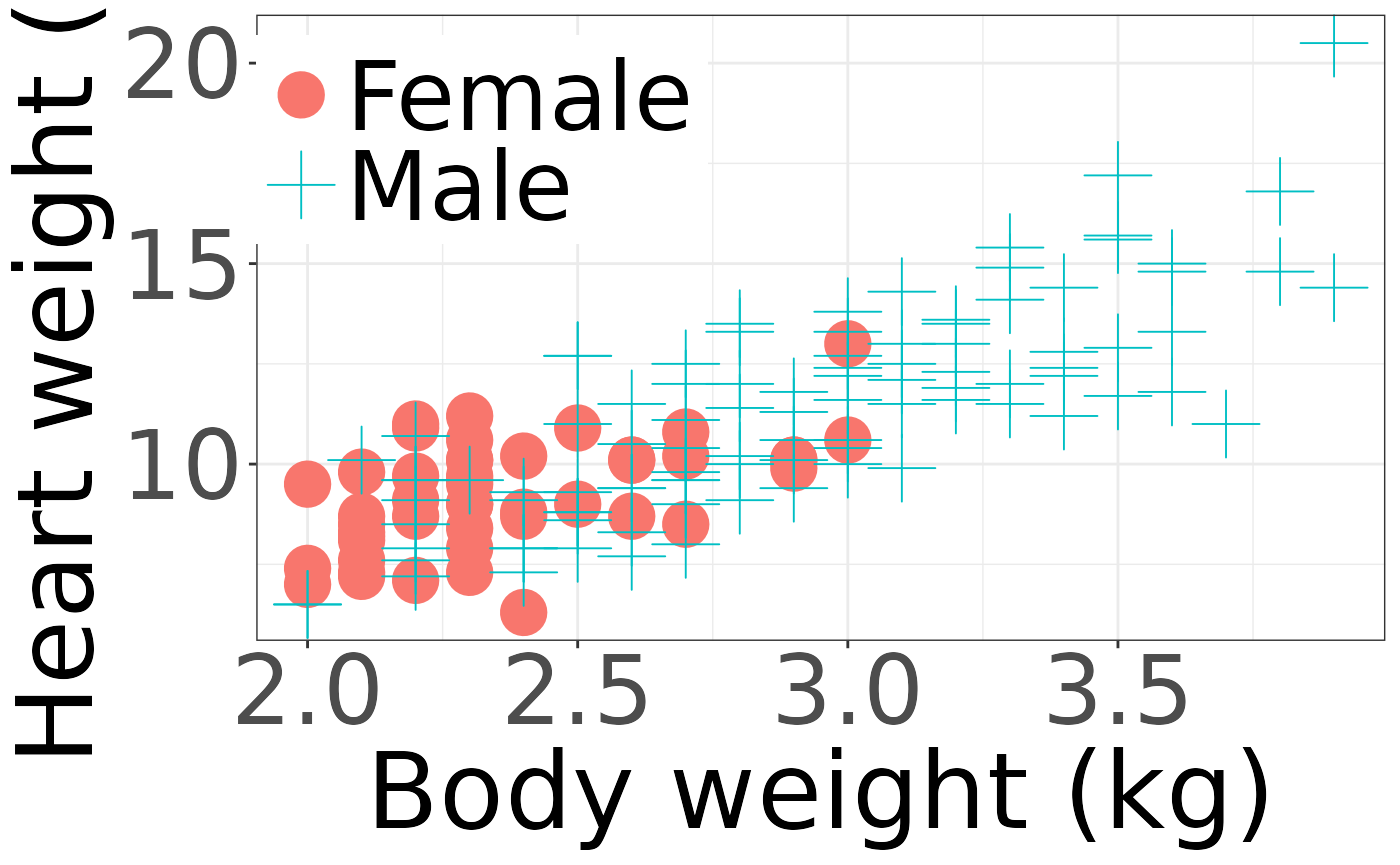
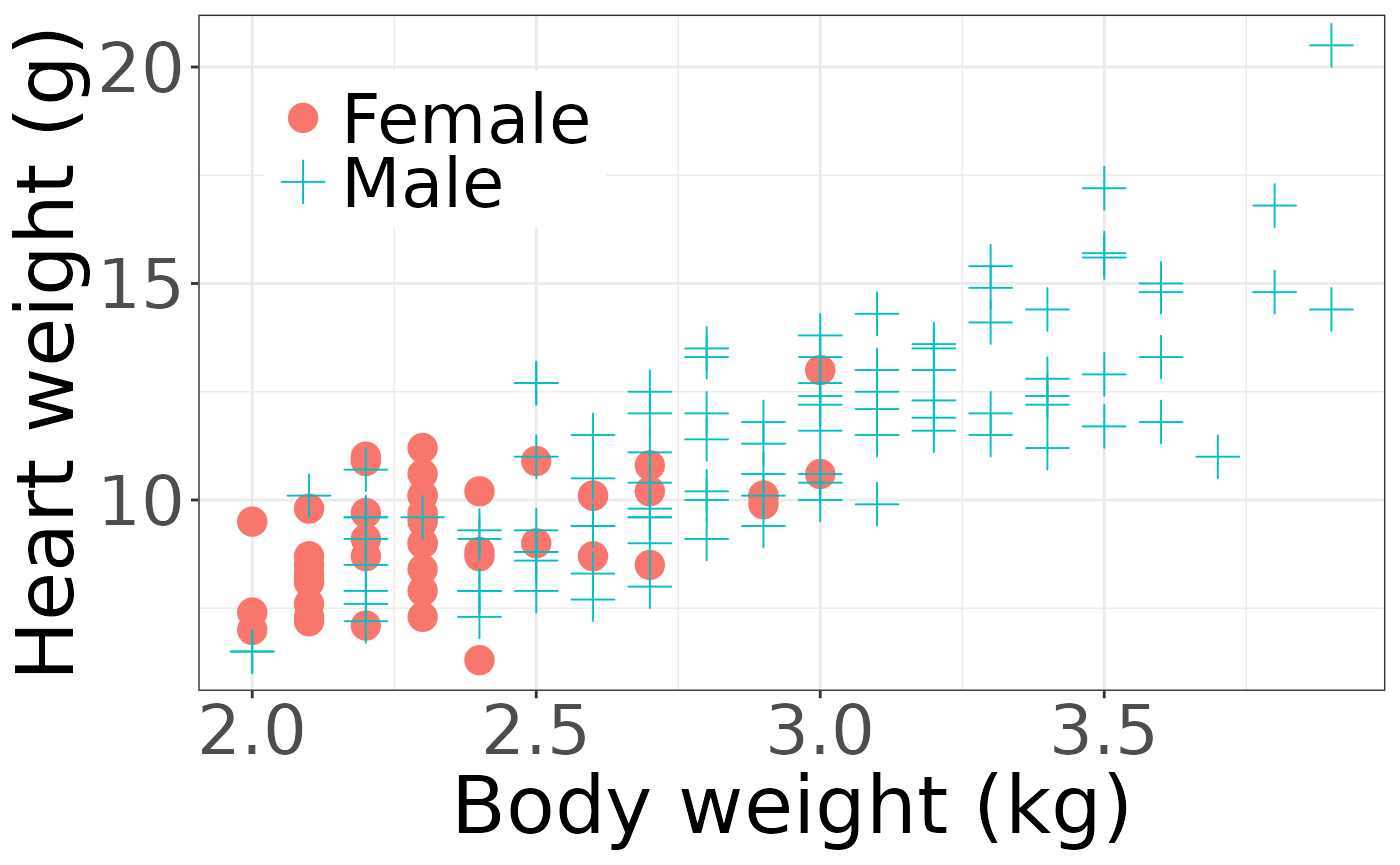
Deploying to gh-pages from @ jrvanderdoes/purify@3accf1cc36ce6e32ae7c7b9b3adfd80e08b94caa 🚀

diff --git a/articles/cats.html b/articles/cats.html
@@ -59,7 +59,7 @@
       <h1>cats</h1>
             
       
-      <small class="dont-index">Source: <a href="https://github.com/jrvanderdoes/purify/blob/main/vignettes/cats.Rmd" class="external-link"><code>vignettes/cats.Rmd</code></a></small>
+      <small class="dont-index">Source: <a href="https://github.com/jrvanderdoes/purify/blob/main/vignettes/articles/cats.Rmd" class="external-link"><code>vignettes/articles/cats.Rmd</code></a></small>
       <div class="d-none name"><code>cats.Rmd</code></div>
     </div>
 
@@ -68,11 +68,11 @@
 <div class="section level2">
 <h2 id="overview">Overview<a class="anchor" aria-label="anchor" href="#overview"></a>
 </h2>
-<p>This vignette examines the cats data set. The goal of this analysis
-is to see the effect sex has on the body and heart weight measures. This
-analysis goes further than that in the purify vignette by adding
-cross-validation to the summary function. This comes at the cost of
-computational time.</p>
+<p>This article examines data on cats, includes as <em>cats</em> and
+<em>subcats</em> in the package. The goal of this analysis is to see the
+effect sex has on the body and heart weight measures. This analysis goes
+further than that in the purify article by adding cross-validation to
+the summary function. This comes at the cost of computational time.</p>
 <div class="sourceCode" id="cb1"><pre class="downlit sourceCode r">
 <code class="sourceCode R"><span><span class="kw"><a href="https://rdrr.io/r/base/library.html" class="external-link">library</a></span><span class="op">(</span><span class="va"><a href="https://github.com/jrvanderdoes/purify" class="external-link">purify</a></span><span class="op">)</span></span>
 <span><span class="kw"><a href="https://rdrr.io/r/base/library.html" class="external-link">library</a></span><span class="op">(</span><span class="va"><a href="https://ggplot2.tidyverse.org" class="external-link">ggplot2</a></span><span class="op">)</span></span>
@@ -109,14 +109,14 @@ less female cats observed.</p>
 <div class="sourceCode" id="cb5"><pre class="downlit sourceCode r">
 <code class="sourceCode R"><span></span>
 <span><span class="fu"><a href="https://ggplot2.tidyverse.org/reference/ggplot.html" class="external-link">ggplot</a></span><span class="op">(</span><span class="op">)</span> <span class="op">+</span></span>
-<span>  <span class="fu"><a href="https://ggplot2.tidyverse.org/reference/geom_point.html" class="external-link">geom_point</a></span><span class="op">(</span><span class="fu"><a href="https://ggplot2.tidyverse.org/reference/aes.html" class="external-link">aes</a></span><span class="op">(</span>x <span class="op">=</span> <span class="va">Bwt</span>, y <span class="op">=</span> <span class="va">Hwt</span>, col <span class="op">=</span> <span class="va">Sex</span>, shape <span class="op">=</span> <span class="va">Sex</span><span class="op">)</span>, data <span class="op">=</span> <span class="va">cats</span>, size <span class="op">=</span> <span class="fl">8</span><span class="op">)</span> <span class="op">+</span></span>
+<span>  <span class="fu"><a href="https://ggplot2.tidyverse.org/reference/geom_point.html" class="external-link">geom_point</a></span><span class="op">(</span><span class="fu"><a href="https://ggplot2.tidyverse.org/reference/aes.html" class="external-link">aes</a></span><span class="op">(</span>x <span class="op">=</span> <span class="va">Bwt</span>, y <span class="op">=</span> <span class="va">Hwt</span>, col <span class="op">=</span> <span class="va">Sex</span>, shape <span class="op">=</span> <span class="va">Sex</span><span class="op">)</span>, data <span class="op">=</span> <span class="va">cats</span>, size <span class="op">=</span> <span class="fl">5</span><span class="op">)</span> <span class="op">+</span></span>
 <span>  <span class="fu"><a href="https://ggplot2.tidyverse.org/reference/ggtheme.html" class="external-link">theme_bw</a></span><span class="op">(</span><span class="op">)</span> <span class="op">+</span></span>
 <span>  <span class="fu"><a href="https://ggplot2.tidyverse.org/reference/theme.html" class="external-link">theme</a></span><span class="op">(</span></span>
-<span>    axis.title <span class="op">=</span> <span class="fu"><a href="https://ggplot2.tidyverse.org/reference/element.html" class="external-link">element_text</a></span><span class="op">(</span>size <span class="op">=</span> <span class="fl">40</span><span class="op">)</span>,</span>
-<span>    axis.text <span class="op">=</span> <span class="fu"><a href="https://ggplot2.tidyverse.org/reference/element.html" class="external-link">element_text</a></span><span class="op">(</span>size <span class="op">=</span> <span class="fl">36</span><span class="op">)</span>,</span>
+<span>    axis.title <span class="op">=</span> <span class="fu"><a href="https://ggplot2.tidyverse.org/reference/element.html" class="external-link">element_text</a></span><span class="op">(</span>size <span class="op">=</span> <span class="fl">30</span><span class="op">)</span>,</span>
+<span>    axis.text <span class="op">=</span> <span class="fu"><a href="https://ggplot2.tidyverse.org/reference/element.html" class="external-link">element_text</a></span><span class="op">(</span>size <span class="op">=</span> <span class="fl">26</span><span class="op">)</span>,</span>
 <span>    legend.position <span class="op">=</span> <span class="fu"><a href="https://rdrr.io/r/base/c.html" class="external-link">c</a></span><span class="op">(</span><span class="fl">.2</span>, <span class="fl">.8</span><span class="op">)</span>,</span>
 <span>    legend.title <span class="op">=</span> <span class="fu"><a href="https://ggplot2.tidyverse.org/reference/element.html" class="external-link">element_blank</a></span><span class="op">(</span><span class="op">)</span>,</span>
-<span>    legend.text <span class="op">=</span> <span class="fu"><a href="https://ggplot2.tidyverse.org/reference/element.html" class="external-link">element_text</a></span><span class="op">(</span>size <span class="op">=</span> <span class="fl">36</span><span class="op">)</span></span>
+<span>    legend.text <span class="op">=</span> <span class="fu"><a href="https://ggplot2.tidyverse.org/reference/element.html" class="external-link">element_text</a></span><span class="op">(</span>size <span class="op">=</span> <span class="fl">26</span><span class="op">)</span></span>
 <span>  <span class="op">)</span> <span class="op">+</span></span>
 <span>  <span class="fu"><a href="https://ggplot2.tidyverse.org/reference/scale_colour_discrete.html" class="external-link">scale_color_discrete</a></span><span class="op">(</span>labels <span class="op">=</span> <span class="fu"><a href="https://rdrr.io/r/base/c.html" class="external-link">c</a></span><span class="op">(</span><span class="st">"Female"</span>, <span class="st">"Male"</span><span class="op">)</span><span class="op">)</span> <span class="op">+</span></span>
 <span>  <span class="fu"><a href="https://ggplot2.tidyverse.org/reference/scale_manual.html" class="external-link">scale_shape_manual</a></span><span class="op">(</span></span>

diff --git a/paper.html b/paper.html
@@ -47,7 +47,7 @@
 <p>The package’s support for stratified and segmented sampling further allows users to address scenarios with grouped or ordered data (even under dependence), providing a critical resource for modern applied statistical research. By incorporating sophisticated resampling techniques, <code>Purify</code> enhances the robustness and reliability of statistical inferences drawn from complex (in particular unbalanced) datasets.</p>
 <p>Permutation tests can be naturally computational intensive and speed is an important consideration throughout <code>Purify</code>. Users can use it in a variety of problems. Additional functions provide use of resampling in the context of cross-validation. Supplemental functions provide visualizations and summary functions to illuminate the methods and results. Detailed documentation makes <code>Purify</code> accessible to users of varying statistical understanding.</p>
 <div class="float">
-<img src="articles/cat_overview.png" style="width:100.0%" alt="Subcats. Body and heart weights of cats with respect to their sex."><div class="figcaption">
+<img src="articles/articles/cat_overview.png" style="width:100.0%" alt="Subcats. Body and heart weights of cats with respect to their sex."><div class="figcaption">
 <strong>Subcats.</strong> Body and heart weights of cats with respect to their sex.</div>
 </div>
 </div>
@@ -57,9 +57,9 @@
 <p>Supporting functions such as <code><a href="reference/summarize_resample.html">summarize_resample()</a></code> provide additional information to the user. Visualization such as <code><a href="reference/plot_strata_bar.html">plot_strata_bar()</a></code> or <code>plot_strat_box()</code> visualize group sizes in stratified samples.</p>
 <div class="section level2">
 <h2 id="example">Example<a class="anchor" aria-label="anchor" href="#example"></a></h2>
-<p><code>Purify</code> provides several in-depth vignettes in the package or at its <a href="https://jrvanderdoes.github.io/purify/">website</a>. For example,</p>
-<ul><li>The <em>purify</em> vignette describes the core features of `purify’ and includes simulations and real data examples to demonstrate the functions.</li>
-<li>The <em>cats</em> vignette details investigation on real data.</li>
+<p><code>Purify</code> provides in-depth articles on the package <a href="https://jrvanderdoes.github.io/purify/">website</a>. For example,</p>
+<ul><li>The <em>purify</em> article describes the core features of `purify’ and includes simulations and real data examples to demonstrate the functions.</li>
+<li>The <em>cats</em> article details investigation on real data.</li>
 </ul><p>We consider a subset of the cats (<em>subcats</em>) data set below, where we use sex and body weight to estimate heart weight; see . As seen in many real-world examples, the data is highly imbalanced. Nonetheless, sex and body weight are both useful in understanding heart weight. In particular, female cats have lower body weights and have a lower heart weight even for the same body weight when compared to male cats.</p>
 <table style="width:97%;" class="table"><caption>
 <strong>Subcats models.</strong> Models of cats using body weight and sex to predict heart weight.</caption>
@@ -87,7 +87,7 @@
 <td align="center">4.186<br>
 (3.425, 5.005)</td>
 <td align="center">2.192</td>
-</tr></tfoot></table><p>Let the linear model be defined as heart weight being predicted by a intercept, body weight and sex. Estimates for the coefficients and the confidence intervals for each parameter are given in . When applying the linear model directly on the data, only body weights appear to significantly impact heart weight. For resampled data, where samples are taken to create more evenly sized groups based on sex, both sex and body weight are determined to be significant. The cost for this simple example is that the confidence interval on body weight is larger. While additional simulations, or modifying the resampling scheme may mitigate such losses, it is important to consider such effects. Often the prediction errors, e.g. mean square error (MSE), is more important and in this case, the resampled model also performs better. See vignettes for additional analysis on this and other data.</p>
+</tr></tfoot></table><p>Let the linear model be defined as heart weight being predicted by a intercept, body weight and sex. Estimates for the coefficients and the confidence intervals for each parameter are given in . When applying the linear model directly on the data, only body weights appear to significantly impact heart weight. For resampled data, where samples are taken to create more evenly sized groups based on sex, both sex and body weight are determined to be significant. The cost for this simple example is that the confidence interval on body weight is larger. While additional simulations, or modifying the resampling scheme may mitigate such losses, it is important to consider such effects. Often the prediction errors, e.g. mean square error (MSE), is more important and in this case, the resampled model also performs better. See articles for additional analysis on this and other data.</p>
 <!--
 library(purify)
 library(ggplot2)

diff --git a/articles/purify.html b/articles/purify.html
@@ -59,7 +59,7 @@
       <h1>purify</h1>
             
       
-      <small class="dont-index">Source: <a href="https://github.com/jrvanderdoes/purify/blob/main/vignettes/purify.Rmd" class="external-link"><code>vignettes/purify.Rmd</code></a></small>
+      <small class="dont-index">Source: <a href="https://github.com/jrvanderdoes/purify/blob/main/vignettes/articles/purify.Rmd" class="external-link"><code>vignettes/articles/purify.Rmd</code></a></small>
       <div class="d-none name"><code>purify.Rmd</code></div>
     </div>
 
@@ -68,9 +68,9 @@
 <div class="section level2">
 <h2 id="introduction">Introduction<a class="anchor" aria-label="anchor" href="#introduction"></a>
 </h2>
-<p>Welcome to `purify’! This vignette will outline the main functions
-and offer many valuable simulations for these funtions. Real data
-examples can be found in other vignettes.</p>
+<p>Welcome to `purify’! This article will outline the main functions and
+offer many valuable simulations for these funtions. Real data examples
+can be found in other articles.</p>
 <p>`Purify’ comes from its purpose of permutation tests and
 statification for data. It can be used to purify data and mitigate
 confounding effects, particularly when looking at strata which are much
@@ -167,7 +167,7 @@ the survival of a passenger.</p>
 <div class="sourceCode" id="cb9"><pre class="downlit sourceCode r">
 <code class="sourceCode R"><span><span class="co"># Does CV on each sample</span></span>
 <span><span class="co">#   Note, MSE uses all data while resample will be missing the CV part</span></span>
-<span><span class="co">#   See cats vignette for modifications</span></span>
+<span><span class="co">#   See cats article for modifications</span></span>
 <span><span class="va">mse_function1</span> <span class="op">&lt;-</span> <span class="kw">function</span><span class="op">(</span><span class="va">data</span><span class="op">)</span> <span class="op">{</span></span>
 <span>  <span class="va">cv</span> <span class="op">&lt;-</span> <span class="fu"><a href="../reference/cross_validation.html">cross_validation</a></span><span class="op">(</span></span>
 <span>    data <span class="op">=</span> <span class="va">data</span>,</span>
@@ -233,7 +233,7 @@ the survival of a passenger.</p>
 <span></span>
 <span><span class="co"># Perform resampling with the 'simple' method</span></span>
 <span><span class="co">#   Note, MSE uses all data while resample will be missing the CV part</span></span>
-<span><span class="co">#   See cats vignette for modifications</span></span>
+<span><span class="co">#   See cats article for modifications</span></span>
 <span><span class="va">results</span> <span class="op">&lt;-</span> <span class="fu"><a href="../reference/resample.html">resample</a></span><span class="op">(</span></span>
 <span>  data <span class="op">=</span> <span class="va">credit</span>, fn <span class="op">=</span> <span class="va">mse_function</span>,</span>
 <span>  M <span class="op">=</span> <span class="fl">2000</span>, strata <span class="op">=</span> <span class="st">"Job"</span></span>

diff --git a/index.html b/index.html
@@ -57,7 +57,7 @@
 </h1></div>
 <!-- badges: start -->
 
-<p>Purify provides a robust framework for resampling data with potential dependency and / or uneven group sizes. The methods of resampling, cross-validation, and forecasting confidence intervals purify the data resulting in improved conclusions under a variety of scenarios. The functions are robust and flexible permitting direct use or seamless integration into the custom analyses. See example uses in Tetui et al. (2022) <a href="doi:10.1080/21645515.2022.2089500" class="uri">doi:10.1080/21645515.2022.2089500</a> and Alexander, K. L., Hall, K., &amp; Chen, Y. M. (2024) <a href="doi:10.29173/jchla29798" class="uri">doi:10.29173/jchla29798</a>.</p>
+<p>Purify provides a robust framework for resampling data with potential dependency and / or uneven group sizes. The methods of resampling, cross-validation, and forecasting confidence intervals purify the data resulting in improved conclusions under a variety of scenarios. The functions are robust and flexible permitting direct use or seamless integration into the custom analyses. See example uses in Tetui et al. (2022) &lt;<a href="doi:10.1080/21645515.2022.2089500%5C" class="uri">doi:10.1080/21645515.2022.2089500&lt;/a&gt;&gt; and Alexander, K. L., Hall, K., &amp; Chen, Y. M. (2024) &lt;</a><a href="doi:10.29173/jchla29798%5C" class="uri">doi:10.29173/jchla29798&lt;/a&gt;&gt;.</a></p>
 <div class="section level2">
 <h2 id="installation">Installation<a class="anchor" aria-label="anchor" href="#installation"></a>
 </h2>

diff --git a/articles/articles/purify.html b/articles/articles/purify.html
@@ -1,0 +1,8 @@
+<html>
+  <head>
+    <meta http-equiv="refresh" content="0;URL=https://jrvanderdoes.github.io/purify/articles/purify.html" />
+    <meta name="robots" content="noindex">
+    <link rel="canonical" href="https://jrvanderdoes.github.io/purify/articles/purify.html">
+  </head>
+</html>
+

diff --git a/articles/articles/cats.html b/articles/articles/cats.html
@@ -1,0 +1,8 @@
+<html>
+  <head>
+    <meta http-equiv="refresh" content="0;URL=https://jrvanderdoes.github.io/purify/articles/cats.html" />
+    <meta name="robots" content="noindex">
+    <link rel="canonical" href="https://jrvanderdoes.github.io/purify/articles/cats.html">
+  </head>
+</html>
+
